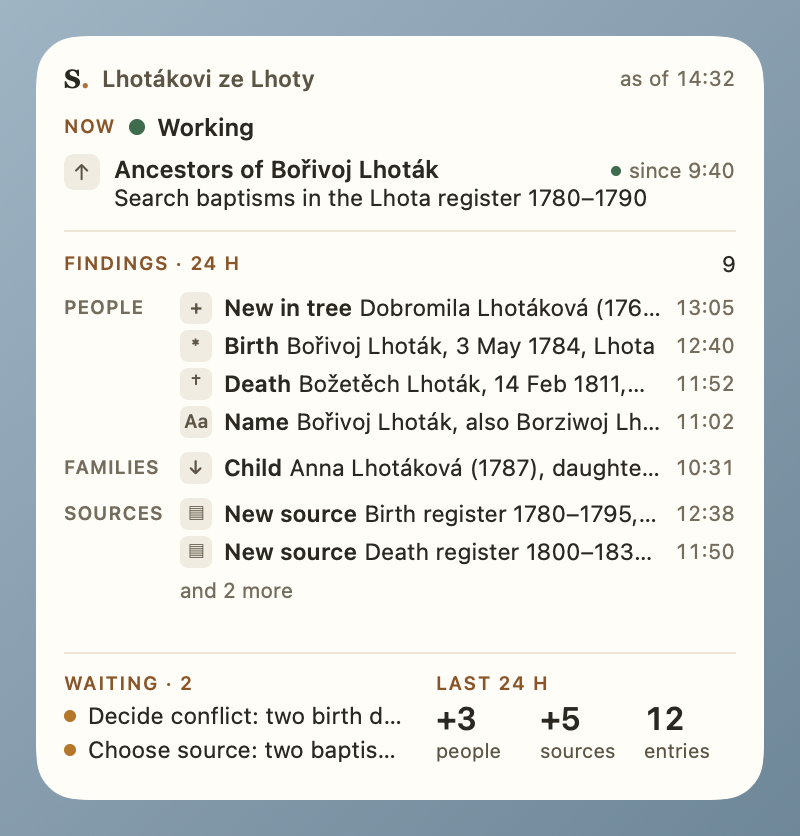
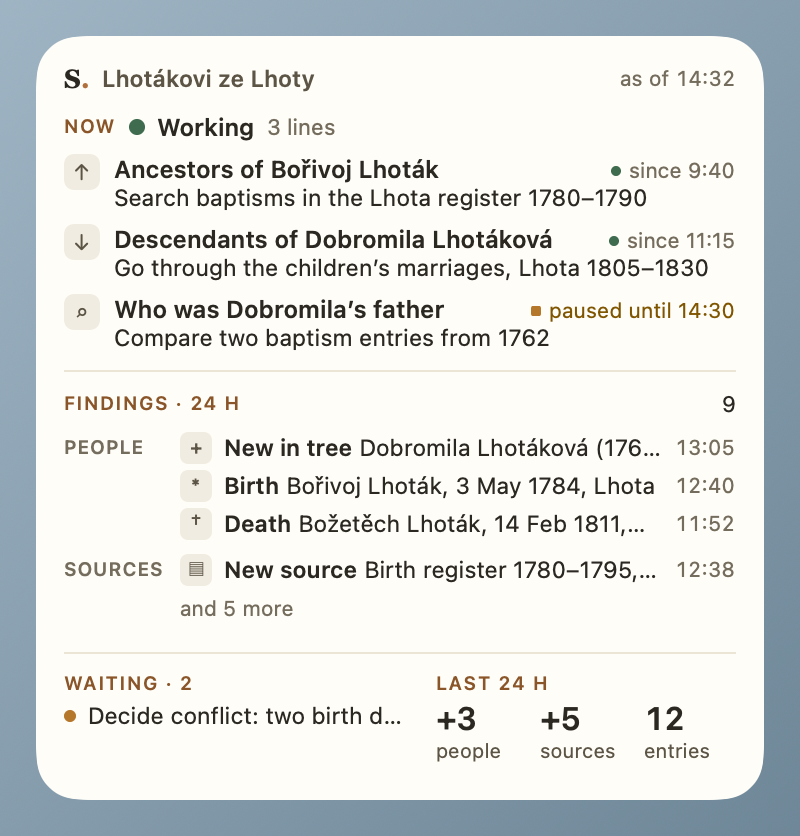
Add local release script, release notes and README gallery
- scripts/release.sh archives the Release build signed with Apple Development
  (team TKYS4BYH6B), verifies the signature and packages the zip with
  SHA256SUMS and release notes; built products are unregistered from
  Launch Services.
- scripts/release-notes.sh, .github/release-install.md: installation steps
  first, notes in English with Czech and German folded below.
- scripts/github-setup.sh: description, homepage, topics.
- RELEASING.md: release steps and certificate validity.
- README: hero, gallery of sizes, light/dark and states rendered by the
  snapshot tests (testReadmeImages), signing paragraph.
- German product name unified with the research: Strom Ahnenforschung.
- Silence the unused result warning of the pop-up menu.

diff --git a/Tests/SnapshotTests.swift b/Tests/SnapshotTests.swift
@@ -37,6 +37,14 @@ final class SnapshotTests: XCTestCase {
     }
 
     private func widget(_ model: WidgetModel, _ family: StromFamily, _ scheme: ColorScheme, _ mode: Mode) -> some View {
+        card(model, family, scheme, mode)
+            .padding(18)
+            .background(desktop(scheme))
+            .environment(\.colorScheme, scheme)
+    }
+
+    /// One widget without the desktop around it.
+    private func card(_ model: WidgetModel, _ family: StromFamily, _ scheme: ColorScheme, _ mode: Mode = .color) -> some View {
         let size = family.designSize
         let palette = Palette.forScheme(scheme)
         return StromWidgetView(model: model, family: family)
@@ -52,8 +60,6 @@ final class SnapshotTests: XCTestCase {
                 }
             }
             .clipShape(RoundedRectangle(cornerRadius: 22, style: .continuous))
-            .padding(18)
-            .background(desktop(scheme))
             .environment(\.colorScheme, scheme)
     }
 
@@ -64,12 +70,12 @@ final class SnapshotTests: XCTestCase {
     }
 
     @discardableResult
-    private func render<V: View>(_ view: V, _ file: String) throws -> NSImage {
+    private func render<V: View>(_ view: V, _ file: String, to dir: URL? = nil) throws -> NSImage {
         let renderer = ImageRenderer(content: view)
         renderer.scale = 2
         let image = try XCTUnwrap(renderer.cgImage, file)
         XCTAssertGreaterThan(image.width, 100, file)
-        if let dir = outDir {
+        if let dir = dir ?? outDir {
             try FileManager.default.createDirectory(at: dir, withIntermediateDirectories: true)
             let rep = NSBitmapImageRep(cgImage: image)
             let png = try XCTUnwrap(rep.representation(using: .png, properties: [:]))
@@ -163,6 +169,52 @@ final class SnapshotTests: XCTestCase {
             try render(OpenFailedView(lang: .cs, what: "Narození Bořivoj Lhoták", address: SampleData.base, onCopy: {}, onClose: {})
                 .environment(\.colorScheme, scheme), "7d-open-failed-\(suffix)")
             try render(IconTile(size: 128).padding(20).background(desktop(scheme)).environment(\.colorScheme, scheme), "8d-icon-\(suffix)")
+        }
+    }
+
+    /// The pictures of the README (`.github/images/`), in English. Written when `STROM_README_DIR` is set
+    /// (xcodebuild: `TEST_RUNNER_STROM_README_DIR`).
+    func testReadmeImages() throws {
+        let env = ProcessInfo.processInfo.environment["STROM_README_DIR"]
+        let dir = env.flatMap { $0.isEmpty ? nil : URL(fileURLWithPath: $0, isDirectory: true) }
+        let working = SampleData.model(.b, lang: .en)
+        for scheme in [ColorScheme.light, .dark] {
+            let suffix = scheme == .dark ? "-dark" : ""
+            // Several sizes side by side, as on a desktop.
+            let hero = HStack(alignment: .top, spacing: 18) {
+                card(working, .large, scheme)
+                VStack(spacing: 18) {
+                    card(working, .medium, scheme)
+                    HStack(spacing: 24) {
+                        card(SampleData.model(.a, lang: .en), .small, scheme)
+                        card(SampleData.model(.c, lang: .en), .small, scheme)
+                    }
+                }
+            }
+            .padding(28)
+            .background(desktop(scheme))
+            .environment(\.colorScheme, scheme)
+            try render(hero, "hero\(suffix)", to: dir)
+            for family in StromFamily.allCases {
+                try render(widget(working, family, scheme, .color), "\(readmeName(family))\(suffix)", to: dir)
+            }
+            try render(widget(SampleData.model(.c, lang: .en), .medium, scheme, .color), "state-paused\(suffix)", to: dir)
+            try render(widget(SampleData.model(.d, lang: .en), .medium, scheme, .color), "state-idle\(suffix)", to: dir)
+            try render(widget(SampleData.model(.f, lang: .en), .medium, scheme, .color), "state-not-running\(suffix)", to: dir)
+            try render(widget(SampleData.model(.b, lang: .en, hideNames: true), .large, scheme, .color), "hidden-names\(suffix)", to: dir)
+            let window = HostSnapshot.build(index: .ok(SampleData.index(lang: .en)), trees: [SampleData.treeKey: SampleData.tree(.a, lang: .en)],
+                                            widgetCounts: [SampleData.treeKey: 2], choice: .auto, now: SampleData.at(14, 35),
+                                            timeZone: SampleData.timeZone)
+            try render(HostMainView(snapshot: window).environment(\.colorScheme, scheme), "app-window\(suffix)", to: dir)
+        }
+    }
+
+    private func readmeName(_ f: StromFamily) -> String {
+        switch f {
+        case .small: return "widget-small"
+        case .medium: return "widget-medium"
+        case .large: return "widget-large"
+        case .extraLarge: return "widget-extra-large"
         }
     }
 }

diff --git a/Shared/Logic/Strings.swift b/Shared/Logic/Strings.swift
@@ -218,7 +218,7 @@ struct L10n {
     var appName: String { "Strom Widget" }
     var appTagline: String { t("Výzkum Stromu na ploše Macu: na čem se pracuje a co se našlo.",
                                "Strom research on the Mac desktop: what is being worked on and what was found.",
-                               "Strom-Forschung auf dem Mac-Schreibtisch: woran gearbeitet wird und was gefunden wurde.") }
+                               "Strom Ahnenforschung auf dem Mac-Schreibtisch: woran gearbeitet wird und was gefunden wurde.") }
     var appResearches: String { t("Výzkumy na tomto Macu", "Research on this Mac", "Forschung auf diesem Mac") }
     func appRowRunning(_ time: String, _ language: String) -> String { t("běží · stav \(time) · \(language)", "running · as of \(time) · \(language)", "läuft · Stand \(time) · \(language)") }
     func appRowStopped(_ when: String, _ language: String) -> String { t("neběží · naposledy \(when) · \(language)", "not running · last \(when) · \(language)", "läuft nicht · zuletzt \(when) · \(language)") }

diff --git a/App/HostViews.swift b/App/HostViews.swift
@@ -387,8 +387,9 @@ enum PopUpMenu {
             menuItem.state = item.checked ? .on : .off
             menu.addItem(menuItem)
         }
+        // The menu item holds its target weakly; keep the targets alive while the menu is open.
         withExtendedLifetime(targets) {
-            menu.popUp(positioning: nil, at: NSEvent.mouseLocation, in: nil)
+            _ = menu.popUp(positioning: nil, at: NSEvent.mouseLocation, in: nil)
         }
     }
 }

diff --git a/README.md b/README.md
@@ -3,12 +3,12 @@
 A macOS desktop widget for [Strom](https://stromapp.info) family history research: what the research is working on
 right now, what it found in the last 24 hours and what waits for a decision. The data stays on the Mac.
 
-<p>
-  <img src=".github/images/widget-large.png" alt="Large widget: work in progress, findings of the last 24 hours, what waits" width="400">
-  <img src=".github/images/widget-medium.png" alt="Medium widget" width="400">
-</p>
+<picture>
+  <source media="(prefers-color-scheme: dark)" srcset=".github/images/hero-dark.png">
+  <img src=".github/images/hero.png" alt="Strom widgets on the desktop: large and medium widget while the research works, two small ones (working, paused)" width="802">
+</picture>
 
-The pictures show made-up sample research (Lhotákovi ze Lhoty).
+The pictures show made-up sample research (Lhotákovi ze Lhoty). More of them: [Gallery](#gallery).
 
 ## Requirements
 
@@ -21,8 +21,8 @@ The pictures show made-up sample research (Lhotákovi ze Lhoty).
 1. Download `Strom-Widget-X.Y.Z.zip` from [Releases](https://github.com/ACiDekCZ/strom-mac/releases) and check it
    against `SHA256SUMS` if wanted: `shasum -a 256 -c SHA256SUMS --ignore-missing`.
 2. Unzip it and move **Strom Widget.app** to the Applications folder.
-3. Open it. The app is not notarized by Apple, so the first start is blocked ("Apple could not verify…").
-   To allow it once: **System Settings → Privacy & Security**, at the bottom **Open Anyway**, confirm with the
+3. Open it. The first start is blocked once ("Apple could not verify…", see [Signing](#signing)).
+   To allow it: **System Settings → Privacy & Security**, at the bottom **Open Anyway**, confirm with the
    Mac's password, then open the app again.
 4. The app lists the research on this Mac and starts a small helper at login (listed in
    **System Settings → General → Login Items**). The helper has no window; it notices new data from the research and
@@ -38,13 +38,49 @@ The pictures show made-up sample research (Lhotákovi ze Lhoty).
 A click on the widget opens the matching place in the Strom app. The widget's texts follow the language of the
 research (Czech, English or German); the app can set another one.
 
-<img src=".github/images/app-window.png" alt="Strom Widget window: research on this Mac, how to add the widget, language" width="560">
+## Gallery
+
+Four sizes while the research works:
+
+| Small | Medium |
+|---|---|
+| <img src=".github/images/widget-small.png" alt="Small widget: working, 9 found, 2 waiting" width="206"> | <img src=".github/images/widget-medium.png" alt="Medium widget: three lines of work and the findings of the last 24 hours" width="400"> |
+
+| Large | Extra large |
+|---|---|
+| <img src=".github/images/widget-large.png" alt="Large widget: lines of work, findings of the last 24 hours, what waits" width="400"> | <img src=".github/images/widget-extra-large.png" alt="Extra large widget" width="560"> |
+
+Light and dark:
+
+| Light | Dark |
+|---|---|
+| <img src=".github/images/widget-medium.png" alt="Medium widget, light" width="400"> | <img src=".github/images/widget-medium-dark.png" alt="Medium widget, dark" width="400"> |
+| <img src=".github/images/widget-large.png" alt="Large widget, light" width="400"> | <img src=".github/images/widget-large-dark.png" alt="Large widget, dark" width="400"> |
+
+Other states:
+
+| Paused | Not working right now | Research not running |
+|---|---|---|
+| <img src=".github/images/state-paused.png" alt="Medium widget: all lines paused, resumes at 14:30" width="300"> | <img src=".github/images/state-idle.png" alt="Medium widget: not working right now, last worked 2 h ago" width="300"> | <img src=".github/images/state-not-running.png" alt="Medium widget: research not running, findings until 11:20" width="300"> |
+
+Without names of people (right-click the widget → **Edit Widget**), and the Strom Widget app:
+
+| Names hidden | Strom Widget app |
+|---|---|
+| <img src=".github/images/hidden-names.png" alt="Large widget showing the overview without names of people" width="360"> | <picture><source media="(prefers-color-scheme: dark)" srcset=".github/images/app-window-dark.png"><img src=".github/images/app-window.png" alt="Strom Widget window: research on this Mac, how to add the widget, language" width="440"></picture> |
 
 ## Where the data comes from
 
 Only from files of the Strom research on the same Mac: `~/Library/Application Support/Strom/widget/`.
 The research writes them; the widget only reads them. Nothing goes over the network, there is no telemetry and no
 account. The widget can show the overview without names of people (right-click the widget → **Edit Widget**).
+
+## Signing
+
+Releases are signed with the project's Apple Development certificate (team TKYS4BYH6B), so the widget, the app and
+its helper may share their data on any Mac. They are not notarized by Apple: macOS blocks the first start once
+and it is allowed in **System Settings → Privacy & Security → Open Anyway** (step 3 of [Install](#install)).
+How releases are made: [RELEASING.md](RELEASING.md).
 
 ## Uninstall
 
@@ -65,6 +101,7 @@ local build with another team, change both, or sign ad hoc:
 `xcodebuild … CODE_SIGN_IDENTITY=- CODE_SIGN_STYLE=Manual DEVELOPMENT_TEAM= build test` (enough for the tests).
 
 - `TEST_RUNNER_STROM_SNAPSHOT_DIR=<dir>` writes PNG previews of all widget sizes and states during the tests.
+- `TEST_RUNNER_STROM_README_DIR=<dir>` writes the pictures of this README (`.github/images/`).
 - `STROM_WIDGET_DIR` overrides the research folder.
 - An Xcode build registers the built app with Launch Services, so the widget may appear in the widget gallery.
 

diff --git a/.github/release-install.md b/.github/release-install.md
@@ -1,0 +1,64 @@
+## Installing
+
+Requires macOS 14 Sonoma or later and [Strom Research](https://github.com/ACiDekCZ/strom-research) 1.21 or later
+on the same Mac (until 1.21 is out, its beta).
+
+The app is signed with the project's Apple Development certificate but **not notarized by Apple**, so macOS blocks
+the first start once.
+
+1. **Check the download** (optional): put `SHA256SUMS` next to the zip and run
+   `shasum -a 256 -c SHA256SUMS --ignore-missing`.
+2. **Unzip** `Strom-Widget-X.Y.Z.zip` and move **Strom Widget.app** to the Applications folder.
+3. **Allow it once:** open the app; macOS says it could not verify it. Click *Done*, open
+   *System Settings → Privacy & Security*, at the bottom click *Open Anyway* next to Strom Widget, confirm with the
+   Mac's password and open the app again.
+4. **Add the widget:** right-click an empty spot on the desktop → *Edit Widgets…*, search for **Strom**, pick a size
+   and drag it onto the desktop.
+
+**Updating:** quit Strom Widget, replace the app in Applications with the new one and allow it once more (step 3).
+Widgets on the desktop stay.
+
+<details>
+<summary>Česky – instalace</summary>
+
+Potřebuje macOS 14 Sonoma nebo novější a [Strom výzkum](https://github.com/ACiDekCZ/strom-research) 1.21 nebo
+novější na tomtéž Macu (než vyjde 1.21, jeho betu).
+
+Aplikace je podepsaná certifikátem Apple Development projektu, ale **není notarizovaná Applem**, takže macOS
+první spuštění jednou zablokuje.
+
+1. **Kontrola stažení** (volitelně): `SHA256SUMS` vedle zipu a `shasum -a 256 -c SHA256SUMS --ignore-missing`.
+2. **Rozbalit** `Strom-Widget-X.Y.Z.zip` a **Strom Widget.app** přesunout do složky Aplikace.
+3. **Jednou povolit:** po otevření aplikace macOS hlásí, že ji nemůže ověřit. *Hotovo*, pak
+   *Nastavení systému → Soukromí a zabezpečení*, dole *Přesto otevřít* u Strom Widget, potvrdit heslem Macu
+   a aplikaci otevřít znovu.
+4. **Přidání widgetu:** pravý klik na volné místo plochy → *Upravit widgety…*, hledat **Strom**, vybrat velikost
+   a přetáhnout na plochu.
+
+**Aktualizace:** ukončit Strom Widget, aplikaci ve složce Aplikace nahradit novou a jednou znovu povolit (krok 3).
+Widgety na ploše zůstanou.
+
+</details>
+
+<details>
+<summary>Deutsch – Installation</summary>
+
+Benötigt macOS 14 Sonoma oder neuer und [Strom Ahnenforschung](https://github.com/ACiDekCZ/strom-research) 1.21
+oder neuer auf demselben Mac (bis 1.21 erscheint, deren Beta).
+
+Die App ist mit dem Apple-Development-Zertifikat des Projekts signiert, aber **nicht von Apple notarisiert**;
+macOS blockiert deshalb den ersten Start einmal.
+
+1. **Download prüfen** (optional): `SHA256SUMS` neben das Zip legen und
+   `shasum -a 256 -c SHA256SUMS --ignore-missing` ausführen.
+2. **Entpacken** von `Strom-Widget-X.Y.Z.zip` und **Strom Widget.app** in den Ordner Programme bewegen.
+3. **Einmal erlauben:** Beim Öffnen meldet macOS, dass die App nicht überprüft werden konnte. *Fertig*, dann
+   *Systemeinstellungen → Datenschutz & Sicherheit*, unten *Dennoch öffnen* bei Strom Widget, mit dem Passwort des
+   Macs bestätigen und die App erneut öffnen.
+4. **Widget hinzufügen:** Rechtsklick auf eine freie Stelle des Schreibtischs → *Widgets bearbeiten …*, nach
+   **Strom** suchen, eine Größe wählen und auf den Schreibtisch ziehen.
+
+**Aktualisieren:** Strom Widget beenden, die App in Programme durch die neue ersetzen und einmal erneut erlauben
+(Schritt 3). Die Widgets auf dem Schreibtisch bleiben.
+
+</details>

diff --git a/RELEASING.md b/RELEASING.md
@@ -1,0 +1,66 @@
+# Releasing a new version
+
+Releases are built and signed on the maintainer's Mac, not in GitHub Actions: the widget, the host app and the
+helper share an App Group (`TKYS4BYH6B.info.stromapp.widget`), and macOS lets them use it without asking only when
+the signature carries the same team ID. The "Apple Development" certificate of team TKYS4BYH6B stays in the login
+keychain; no certificate goes into repository secrets.
+
+## Procedure
+
+1. Raise the version in `VERSION` and `MARKETING_VERSION` (`project.yml`, then `xcodegen generate`), and add the
+   notes under `## X.Y.Z` to `CHANGELOG.md`, `CHANGELOG.cs.md` and `CHANGELOG.de.md`.
+2. Commit, push `main` and wait for green CI (`gh run watch`).
+3. Tag the commit and push the tag:
+
+   ```sh
+   git tag -a "v$(cat VERSION)" -m "Strom Widget $(cat VERSION)"
+   git push origin "v$(cat VERSION)"
+   ```
+
+4. Build, sign and package:
+
+   ```sh
+   scripts/release.sh
+   ```
+
+   It refuses a dirty working tree, a HEAD without the tag of `VERSION` or a changelog without notes for the
+   version. It archives the Release build signed with "Apple Development" (team TKYS4BYH6B), checks the signature
+   (`codesign --verify --deep --strict`, team ID, App Group of the widget and the helper, version in `Info.plist`)
+   and writes to `build/release/`: `Strom-Widget-X.Y.Z.zip` (`ditto --keepParent`), `SHA256SUMS` and
+   `release-notes.md` (installation steps from `.github/release-install.md`, then the notes in English with Czech
+   and German folded below, `scripts/release-notes.sh`). The built products are unregistered from Launch Services,
+   so the release build does not appear in the widget gallery of the Mac.
+   If the keychain asks for access to the signing key, allow it for `codesign`.
+
+5. Publish:
+
+   ```sh
+   V=$(cat VERSION)
+   gh release create "v$V" "build/release/Strom-Widget-$V.zip" build/release/SHA256SUMS \
+     --title "Strom Widget $V" --notes-file build/release/release-notes.md
+   ```
+
+6. Check the published files:
+
+   ```sh
+   D=$(mktemp -d); gh release download "v$V" --dir "$D"
+   (cd "$D" && shasum -a 256 -c SHA256SUMS && ditto -x -k "Strom-Widget-$V.zip" .)
+   codesign --verify --deep --strict "$D/Strom Widget.app" && codesign -dv --verbose=4 "$D/Strom Widget.app"
+   ```
+
+Versions follow [Semantic Versioning](https://semver.org/): before 1.0, `0.MINOR.PATCH`.
+
+## Signing
+
+- The release is signed with "Apple Development", **not notarized**: on first start macOS blocks it once and it is
+  allowed in *System Settings → Privacy & Security → Open Anyway* (steps at the top of every release's notes).
+- **The certificate is valid for one year.** Apps signed with it keep working after it expires, but a new release
+  needs a renewed certificate (Xcode → Settings → Accounts → Manage Certificates). The team ID stays the same, so the
+  App Group and the widget's settings carry over.
+- A self-signed certificate would not do: it has no team ID, so macOS 15 and later ask before every start whether
+  the app may use the App Group, and the widget extension cannot ask at all.
+- With a Developer ID (Apple Developer Program) the same build can be notarized and the "Open Anyway" step goes away.
+
+## One-time GitHub settings
+
+`scripts/github-setup.sh` sets the description, homepage, topics and private vulnerability reporting.

diff --git a/CHANGELOG.de.md b/CHANGELOG.de.md
@@ -9,7 +9,7 @@ Die Änderungen jeder Version in Kürze. Die Downloads stehen bei
 
 *Die erste Version. Benötigt macOS 14 oder neuer und Strom Ahnenforschung 1.21 oder neuer auf demselben Mac.*
 
-- **Die Strom-Forschung auf dem Mac-Schreibtisch.** Ein Widget in vier Größen (klein bis extra groß) zeigt, woran die
+- **Strom Ahnenforschung auf dem Mac-Schreibtisch.** Ein Widget in vier Größen (klein bis extra groß) zeigt, woran die
   Forschung gerade arbeitet, was sie in den letzten 24 Stunden gefunden hat (Personen, Familien, Quellen, gelöste
   Widersprüche) und was auf eine Entscheidung wartet. Eine Forschung pro Widget; bei mehreren wählt jedes Widget seine.
 - **Namen lassen sich ausblenden.** Das Widget zeigt die Übersicht auf Wunsch ohne Namen von Personen, für einen
